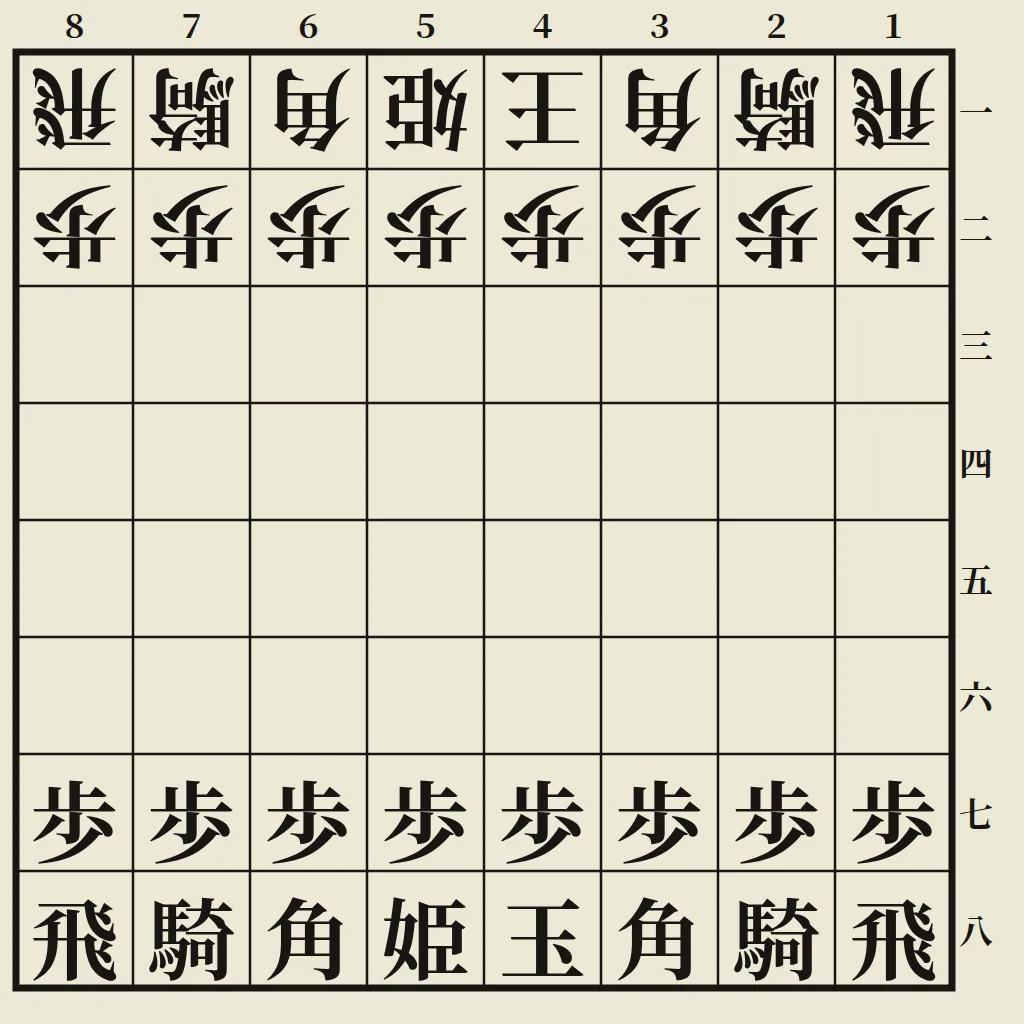
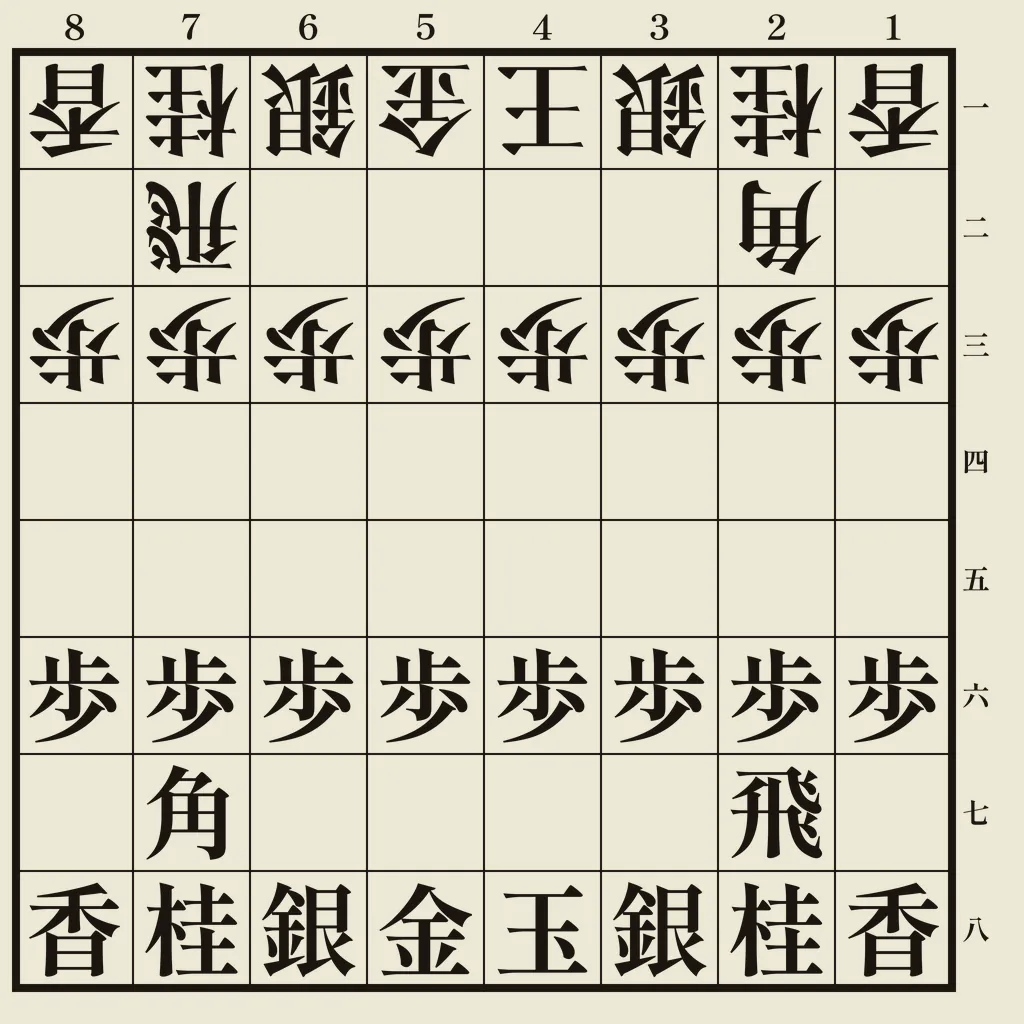
feat(game): the ōgi of the gold general and the free gold

diff --git a/len/index.html b/len/index.html
@@ -8,7 +8,7 @@
     <meta http-equiv="Content-Security-Policy" content="default-src 'self'; style-src 'self' 'unsafe-inline'">
 
     <meta name="viewport" content="width=device-width,initial-scale=1">
-    <meta name="description" content="หมากราชาเป็นรูปแบบหนึ่งของโชกิ (หมากรุกญี่ปุ่น) ที่เล่นบนกระดาน 8x8 ช่อง มีตัวหมากพิเศษคือ 'เจ้าหญิง' และกฎการวางหมากที่เป็นเอกลักษณ์">
+    <meta name="description" content="หมากราชาเป็นรูปแบบหนึ่งของโชกิ (หมากรุกญี่ปุ่น) ที่เล่นบนกระดาน 8x8 ช่อง โดดเด่นด้วยนายพลทองเพียงตัวเดียวที่ยืนข้างขุน ซึ่งเลื่อนขั้นเป็นทองอิสระ ตัวหมากที่มีอักษร 姫 แปลว่า 'เจ้าหญิง'">
     <meta name="keywords" content="หมากราชา,โชกิ,เกมญี่ปุ่น,เจ้าหญิง,กลยุทธ์,กระดาน,หมากรุก,โกมาโย,รูปแบบ,กฎ">
     <meta name="robots" content="index,follow">
     <meta name="author" content="Cyril Veltin">
@@ -21,7 +21,7 @@
     <meta property="og:site_name" content="โกมาโย">
     <meta property="og:locale" content="th_TH">
     <meta property="og:title" content="เกมของเจ้าหญิง - หมากราชาแห่งคันไซ">
-    <meta property="og:description" content="หมากราชาเป็นรูปแบบหนึ่งของโชกิ (หมากรุกญี่ปุ่น) ที่เล่นบนกระดาน 8x8 ช่อง มีตัวหมากพิเศษคือ 'เจ้าหญิง' และกฎการวางหมากที่เป็นเอกลักษณ์">
+    <meta property="og:description" content="หมากราชาเป็นรูปแบบหนึ่งของโชกิ (หมากรุกญี่ปุ่น) ที่เล่นบนกระดาน 8x8 ช่อง โดดเด่นด้วยนายพลทองเพียงตัวเดียวที่ยืนข้างขุน ซึ่งเลื่อนขั้นเป็นทองอิสระ ตัวหมากที่มีอักษร 姫 แปลว่า 'เจ้าหญิง'">
     <meta property="og:type" content="article">
     <meta property="og:url" content="https://th.komayo.page/len/">
     <meta property="og:image" content="https://th.komayo.page/len/img/thai-temple-ghost-woman-ogi-players-moonlight-painting,w_1024.webp">
@@ -30,11 +30,11 @@
     <meta property="og:image:alt" content="ภาพวาดวัดไทยในยามค่ำคืน มีชายสองคนนั่งเล่นหมากราชา เกมกระดานโบราณ ใต้แสงจันทร์เต็มดวง ด้านหลังมีร่างหญิงสาวในชุดสีน้ำเงินยืนแอบมอง ผมยาวสยายพลิ้วในสายลม">
     <meta property="og:article:author" content="Cyril Veltin">
     <meta property="og:article:published_time" content="2023-06-26">
-    <meta property="og:article:modified_time" content="2026-07-12">
+    <meta property="og:article:modified_time" content="2026-11-07">
 
     <meta name="twitter:card" content="summary_large_image">
     <meta name="twitter:title" content="เกมของเจ้าหญิง - หมากราชาแห่งคันไซ">
-    <meta name="twitter:description" content="หมากราชาเป็นรูปแบบหนึ่งของโชกิ (หมากรุกญี่ปุ่น) ที่เล่นบนกระดาน 8x8 ช่อง มีตัวหมากพิเศษคือ 'เจ้าหญิง' และกฎการวางหมากที่เป็นเอกลักษณ์">
+    <meta name="twitter:description" content="หมากราชาเป็นรูปแบบหนึ่งของโชกิ (หมากรุกญี่ปุ่น) ที่เล่นบนกระดาน 8x8 ช่อง โดดเด่นด้วยนายพลทองเพียงตัวเดียวที่ยืนข้างขุน ซึ่งเลื่อนขั้นเป็นทองอิสระ ตัวหมากที่มีอักษร 姫 แปลว่า 'เจ้าหญิง'">
     <meta name="twitter:image" content="https://th.komayo.page/len/img/thai-temple-ghost-woman-ogi-players-moonlight-painting,w_1024.webp">
 
     <link rel="alternate" hreflang="x-default" href="https://en.komayo.page/game/">
@@ -72,8 +72,8 @@
           "headline": "เกมของเจ้าหญิง",
           "name": "หมากราชา",
           "alternateName": ["Ōgi", "王棋", "โอกิ", "เกมของเจ้าหญิง", "หมากรุกโกมาโย"],
-          "description": "หมากราชาเป็นรูปแบบหนึ่งของโชกิ (หมากรุกญี่ปุ่น) ที่เล่นบนกระดาน 8x8 ช่อง มีตัวหมากพิเศษคือ 'เจ้าหญิง' และกฎการวางหมากที่เป็นเอกลักษณ์",
-          "abstract": "รูปแบบหนึ่งของโชกิบนกระดาน 8x8 ช่อง โดดเด่นด้วยการนำเสนอตัวหมากใหม่ 'เจ้าหญิง' และการปรับเปลี่ยนกฎบางข้อ",
+          "description": "หมากราชาเป็นรูปแบบหนึ่งของโชกิ (หมากรุกญี่ปุ่น) ที่เล่นบนกระดาน 8x8 ช่อง โดดเด่นด้วยนายพลทองเพียงตัวเดียวที่ยืนข้างขุน ซึ่งเลื่อนขั้นเป็นทองอิสระ ตัวหมากที่มีอักษร 姫 แปลว่า 'เจ้าหญิง'",
+          "abstract": "รูปแบบหนึ่งของโชกิบนกระดาน 8x8 ช่องที่ใช้กองทัพแบบโชกิ โดยนายพลทองเพียงตัวเดียวเลื่อนขั้นเป็นทองอิสระ (姫)",
           "keywords": ["หมากราชา", "โชกิ", "เกมญี่ปุ่น", "เจ้าหญิง", "กลยุทธ์", "กระดาน", "หมากรุก", "โกมาโย", "รูปแบบ", "กฎ"],
           "image": "https://th.komayo.page/len/img/thai-temple-ghost-woman-ogi-players-moonlight-painting,w_1024.webp",
           "inLanguage": "th",
@@ -87,7 +87,7 @@
           },
           "license": "https://creativecommons.org/licenses/by-sa/4.0/",
           "datePublished": "2023-01-01",
-          "dateModified": "2026-07-12",
+          "dateModified": "2026-11-07",
           "genre": ["เกมกลยุทธ์", "รูปแบบหมากรุก", "เกมกระดาน"],
           "numberOfPlayers": {
             "@type": "QuantitativeValue",
@@ -95,7 +95,7 @@
             "maxValue": 2
           },
           "gameLocation": ["กระดาน", "ออนไลน์"],
-          "characterAttribute": ["ขุน", "เจ้าหญิง", "เรือ", "โคน", "ม้า", "เบี้ย", "โทกิน"],
+          "characterAttribute": ["ขุน", "นายพลทอง", "ทองอิสระ", "เรือ", "ราชามังกร", "โคน", "ม้ามังกร", "นายพลเงิน", "ม้า", "หอก", "เบี้ย", "โทกิน"],
           "copyrightYear": "2023",
           "copyrightHolder": {
             "@type": "Person",
@@ -176,7 +176,7 @@
             itemprop="hasPart"
             itemscope
             itemtype="https://schema.org/Book"><cite itemprop="headline" lang="fr">La Genèse de l'Enchanteresse</cite></a>
-          ชื่อคู่นี้สะท้อนลักษณะเด่นของเกมที่เจ้าหญิงมีบทบาทสำคัญในกลยุทธ์เคียงข้างขุน
+          ชื่อคู่นี้สะท้อนตัวหมากที่โดดเด่นของเกม คือนายพลทองซึ่งยืนเคียงข้างขุน และเมื่อเลื่อนขั้นจะเผยอักษร 姫 ที่แปลว่าเจ้าหญิง
         </p>
 
         <h2>การจัดวางตัวหมาก</h2>
@@ -194,7 +194,7 @@
               img/traditional-ogi-shogi-variant-starting-position-japanese-chess-diagram,w_862.webp 862w,
               img/traditional-ogi-shogi-variant-starting-position-japanese-chess-diagram,w_1024.webp 1024w"
             src="img/traditional-ogi-shogi-variant-starting-position-japanese-chess-diagram,w_1024.webp"
-            alt="ตำแหน่งเริ่มต้นของหมากราชาบนกระดาน 8x8 ช่อง แผนผังขาวดำแสดงเรือ ม้า โคน เจ้าหญิง และขุนของแต่ละฝ่ายบนแถวแรก และเบี้ย 8 ตัวบนแถวที่สอง ด้วยอักษรคันจิ คอลัมน์กำกับเลข 8 ถึง 1 ด้านบน แถวกำกับ 一 ถึง 八 ด้านขวา"
+            alt="ตำแหน่งเริ่มต้นของหมากราชาบนกระดาน 8x8 ช่อง แผนผังขาวดำแสดงหอก ม้า นายพลเงิน นายพลทอง ขุน นายพลเงิน ม้า และหอกของแต่ละฝ่ายบนแถวแรก เรือและโคนบนแถวที่สอง และเบี้ย 8 ตัวบนแถวที่สาม ด้วยอักษรคันจิ คอลัมน์กำกับเลข 8 ถึง 1 ด้านบน แถวกำกับ 一 ถึง 八 ด้านขวา"
           >
         </picture>
 
@@ -212,21 +212,14 @@
           <dt>องค์ประกอบของตัวหมาก</dt>
           <dd>
             <ul>
-              <li>ไม่มีนายพลทอง นายพลเงิน และหอกของโชกิ</li>
-              <li>แต่ละฝ่ายมีเรือ 2 ตัวและโคน 2 ตัว ขณะที่โชกิมีอย่างละ 1 ตัวเท่านั้น</li>
-              <li>ม้ากระโดดเป็นรูปตัว L ได้ทั้งแปดทิศทาง เหมือนม้าในหมากรุกสากล</li>
-              <li>เพิ่มตัวหมากใหม่คือ <q>เจ้าหญิง</q> (姫) ซึ่งรวมการเดินของโคนและม้าไว้ด้วยกัน</li>
+              <li>แต่ละฝ่ายมีนายพลทองเพียงตัวเดียว ขณะที่โชกิมีสองตัว นายพลทองยืนข้างขุนในคอลัมน์เดียวกันสำหรับทั้งสองฝ่าย เหมือนควีนในหมากรุกสากล</li>
+              <li>เมื่อกระดานมีคอลัมน์น้อยลงหนึ่งคอลัมน์ แต่ละฝ่ายจึงมีเบี้ย 8 ตัวแทน 9 ตัว รวมเป็นตัวหมาก 18 ตัว เทียบกับ 20 ตัวในโชกิ</li>
+              <li>เรือ โคน นายพลเงิน ม้า และหอก เหมือนกับของโชกิ</li>
             </ul>
           </dd>
 
           <dt>การเลื่อนขั้น</dt>
-          <dd>มีเพียงเบี้ยเท่านั้นที่มีรูปแบบเลื่อนขั้น คือโทกิน (と) ซึ่งรับการเดินของนายพลทองที่หายไปมาแทน เขตเลื่อนขั้นหดเหลือเพียงแถวสุดท้าย และการเลื่อนขั้นที่นั่นเป็นข้อบังคับโดยอัตโนมัติ</dd>
-
-          <dt>การเดินสองช่อง</dt>
-          <dd>เบี้ยที่ยังไม่เคยเดินสามารถเดินหน้าตรงสองช่องได้ในตาเดียว ซึ่งยืมมาจากหมากรุกสากล&#8239;—&#8239;แต่ไม่มีการกินผ่าน เพราะเบี้ยกินเฉพาะตรงหน้าเท่านั้น</dd>
-
-          <dt>การเข้าป้อม</dt>
-          <dd>ขุนสามารถเข้าป้อมกับเรือของตนตัวใดตัวหนึ่งได้เหมือนในหมากรุกสากลทุกประการ: ขุนเดินไปทางเรือที่ยังไม่เคยเดินสองช่อง แล้วเรือจะมาวางบนช่องที่ขุนเพิ่งเดินผ่าน เรือที่ถูกวางกลับลงกระดานจากมือถือว่าได้ออกจากช่องเดิมแล้ว&#8239;—&#8239;จึงใช้เข้าป้อมไม่ได้</dd>
+          <dd>นายพลทองของหมากราชาเลื่อนขั้นได้ ต่างจากในโชกิ โดยจะกลายเป็นทองอิสระ ซึ่งมีอักษร 姫 ที่แปลว่า <q>เจ้าหญิง</q> ทองอิสระเลื่อนได้ไม่จำกัดช่องเหมือนเรือ และยังเลื่อนตามแนวทแยงด้านหน้าทั้งสองได้ด้วย ตัวหมากอื่นเลื่อนขั้นเหมือนในโชกิ ในเขตสามแถวเช่นเดียวกัน</dd>
 
           <dt>การจบเกม</dt>
           <dd>การอับ (สเตลเมท) และการเกิดตำแหน่งเดิมซ้ำสามครั้งถือเป็นการเสมอเช่นเดียวกับหมากรุกสากล&#8239;—&#8239;ขณะที่โชกิถือว่าผู้ที่อับเป็นฝ่ายแพ้ และการซ้ำต้องถึงสี่ครั้ง กฎ 50 ตาก็มีผลใช้เช่นกัน</dd>
